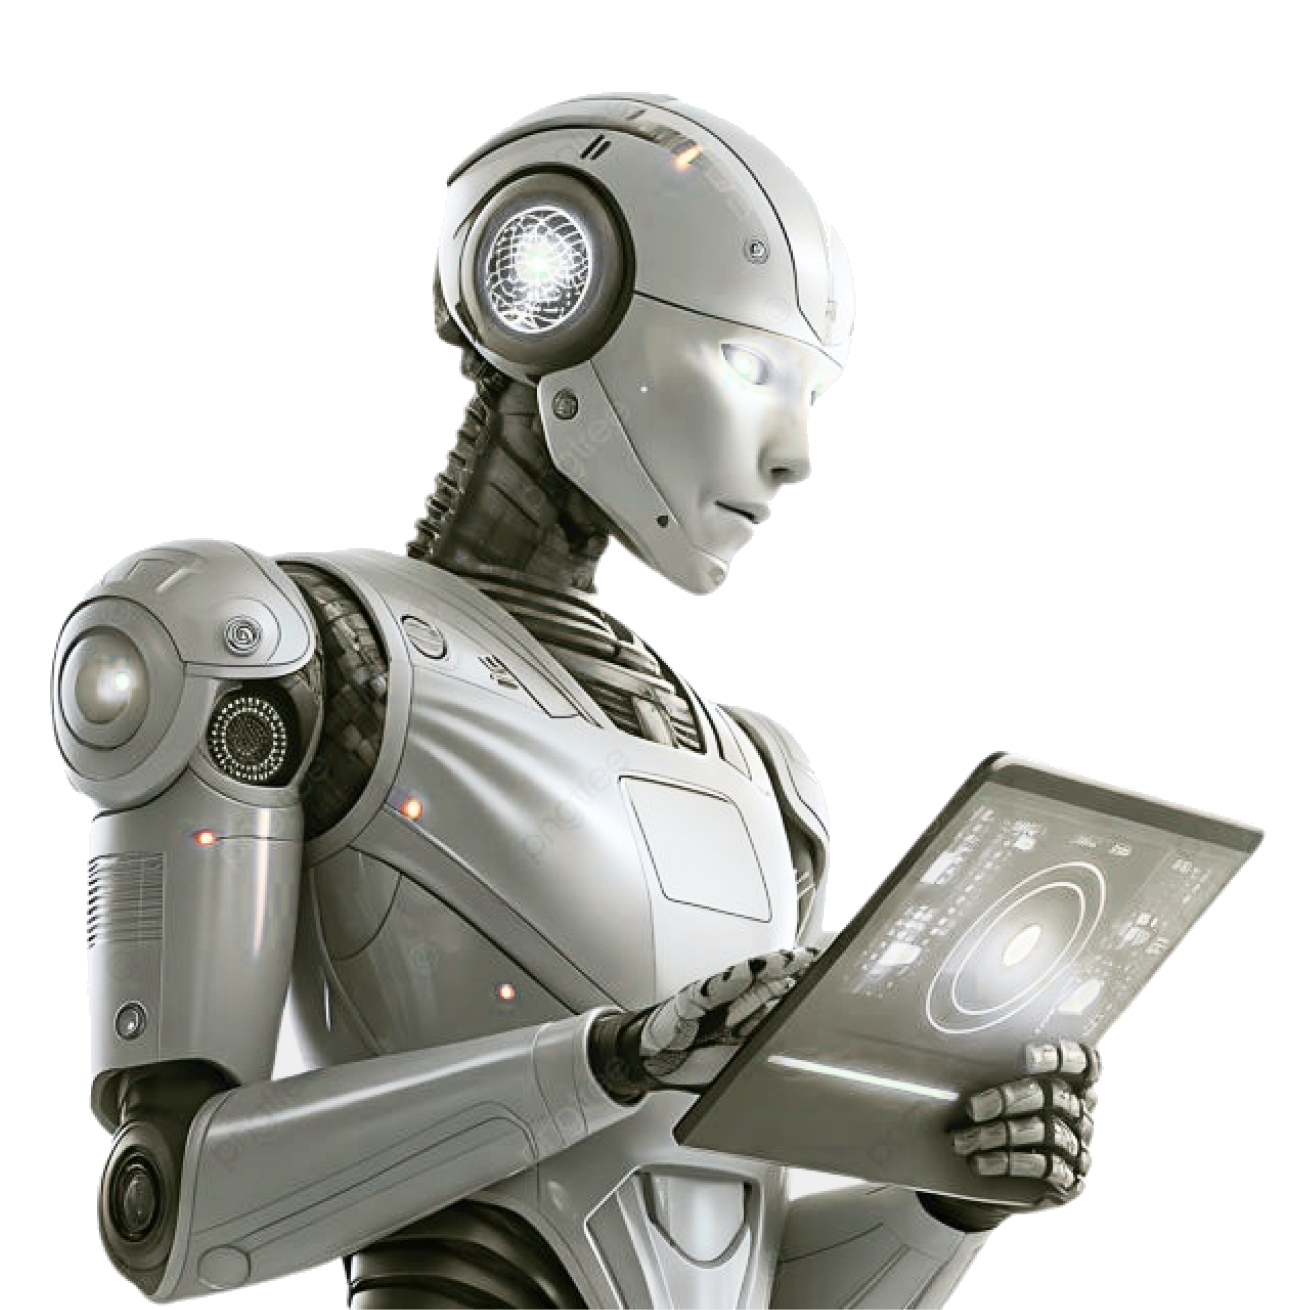
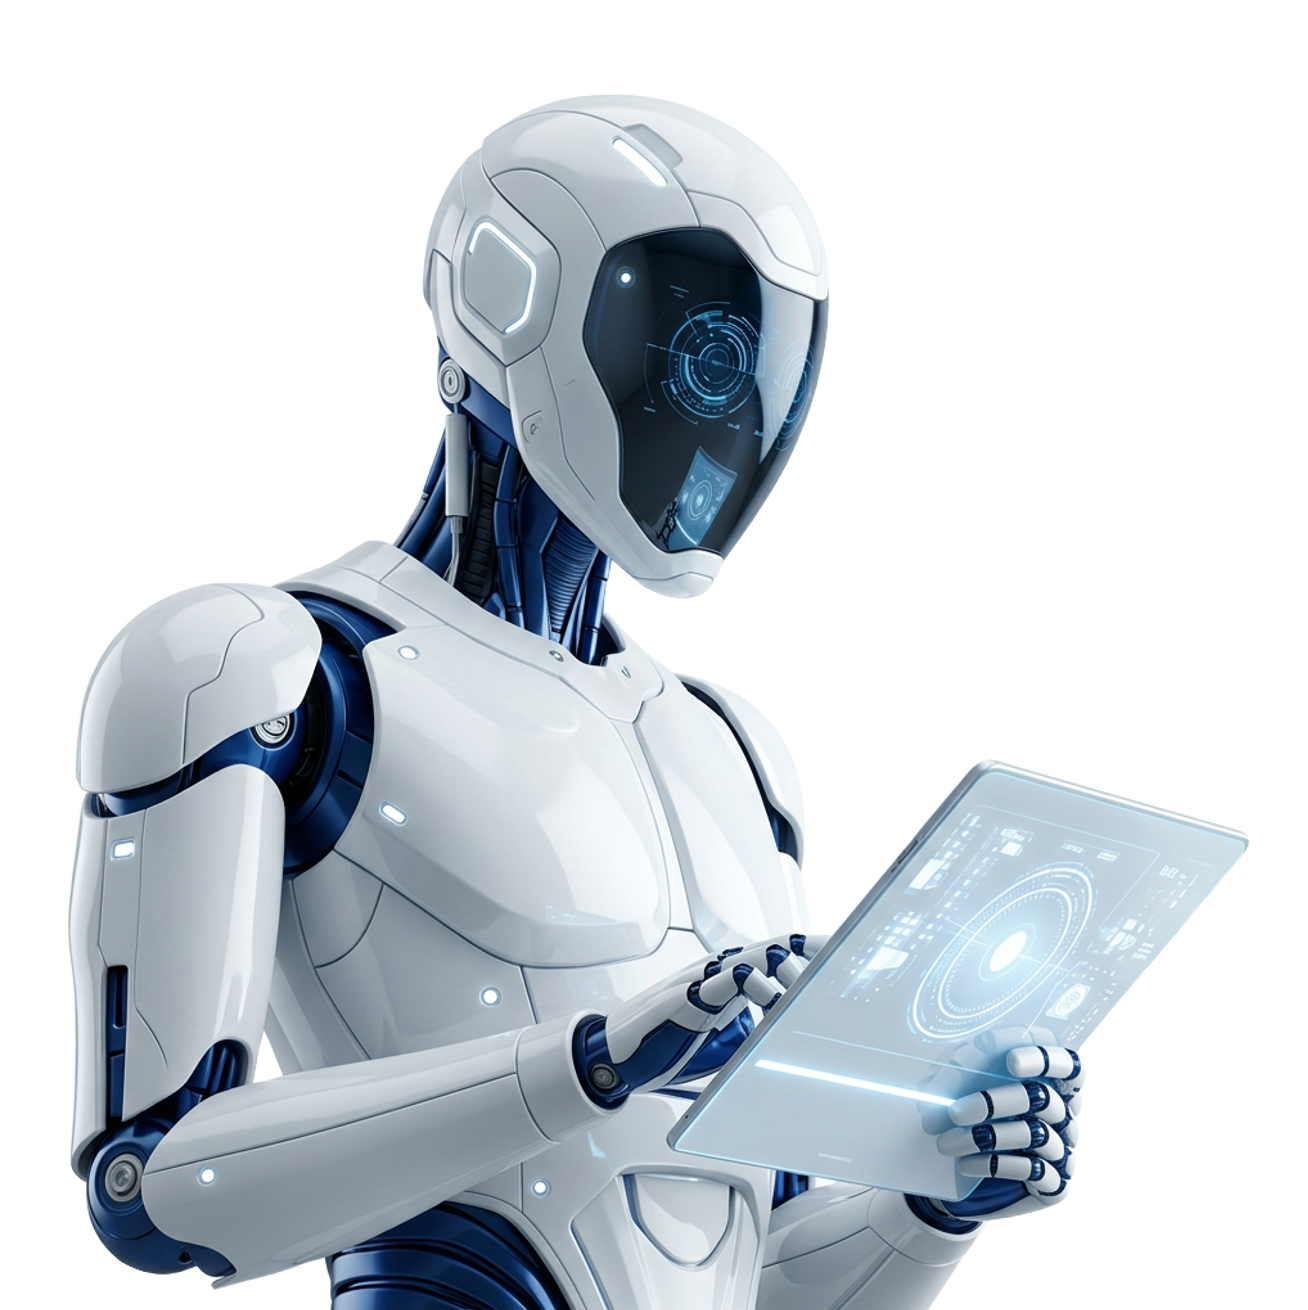
update robota na landingu

diff --git a/komp-ai/src/components/home/HumanMachineDesktop.tsx b/komp-ai/src/components/home/HumanMachineDesktop.tsx
@@ -52,6 +52,7 @@ export default function HumanMachineDesktop({ hm }: { hm: HumanMachineContent })
     // 3) po końcu wideo: fade-in captionu i odblokowanie scrolla.
     let phase: "idle" | "playing" | "done" = "idle";
     let lockY = 0;
+    video.playbackRate = 1.3; // życzenie Patryka: złączenie dłoni ~30% szybciej
     caption.style.opacity = "0";
     caption.style.transform = "translateY(18px)";
     caption.style.transition = "opacity 0.35s ease, transform 0.35s ease";

diff --git a/komp-ai/src/components/shared/HandsVideo.tsx b/komp-ai/src/components/shared/HandsVideo.tsx
@@ -36,6 +36,7 @@ export default function HandsVideo({
         for (const e of entries) {
           if (e.isIntersecting && !played.current) {
             played.current = true;
+            video.playbackRate = 1.3; // złączenie dłoni ~30% szybciej
             video.play().catch(() => {
               /* autoplay zablokowany → zostaje poster */
             });
